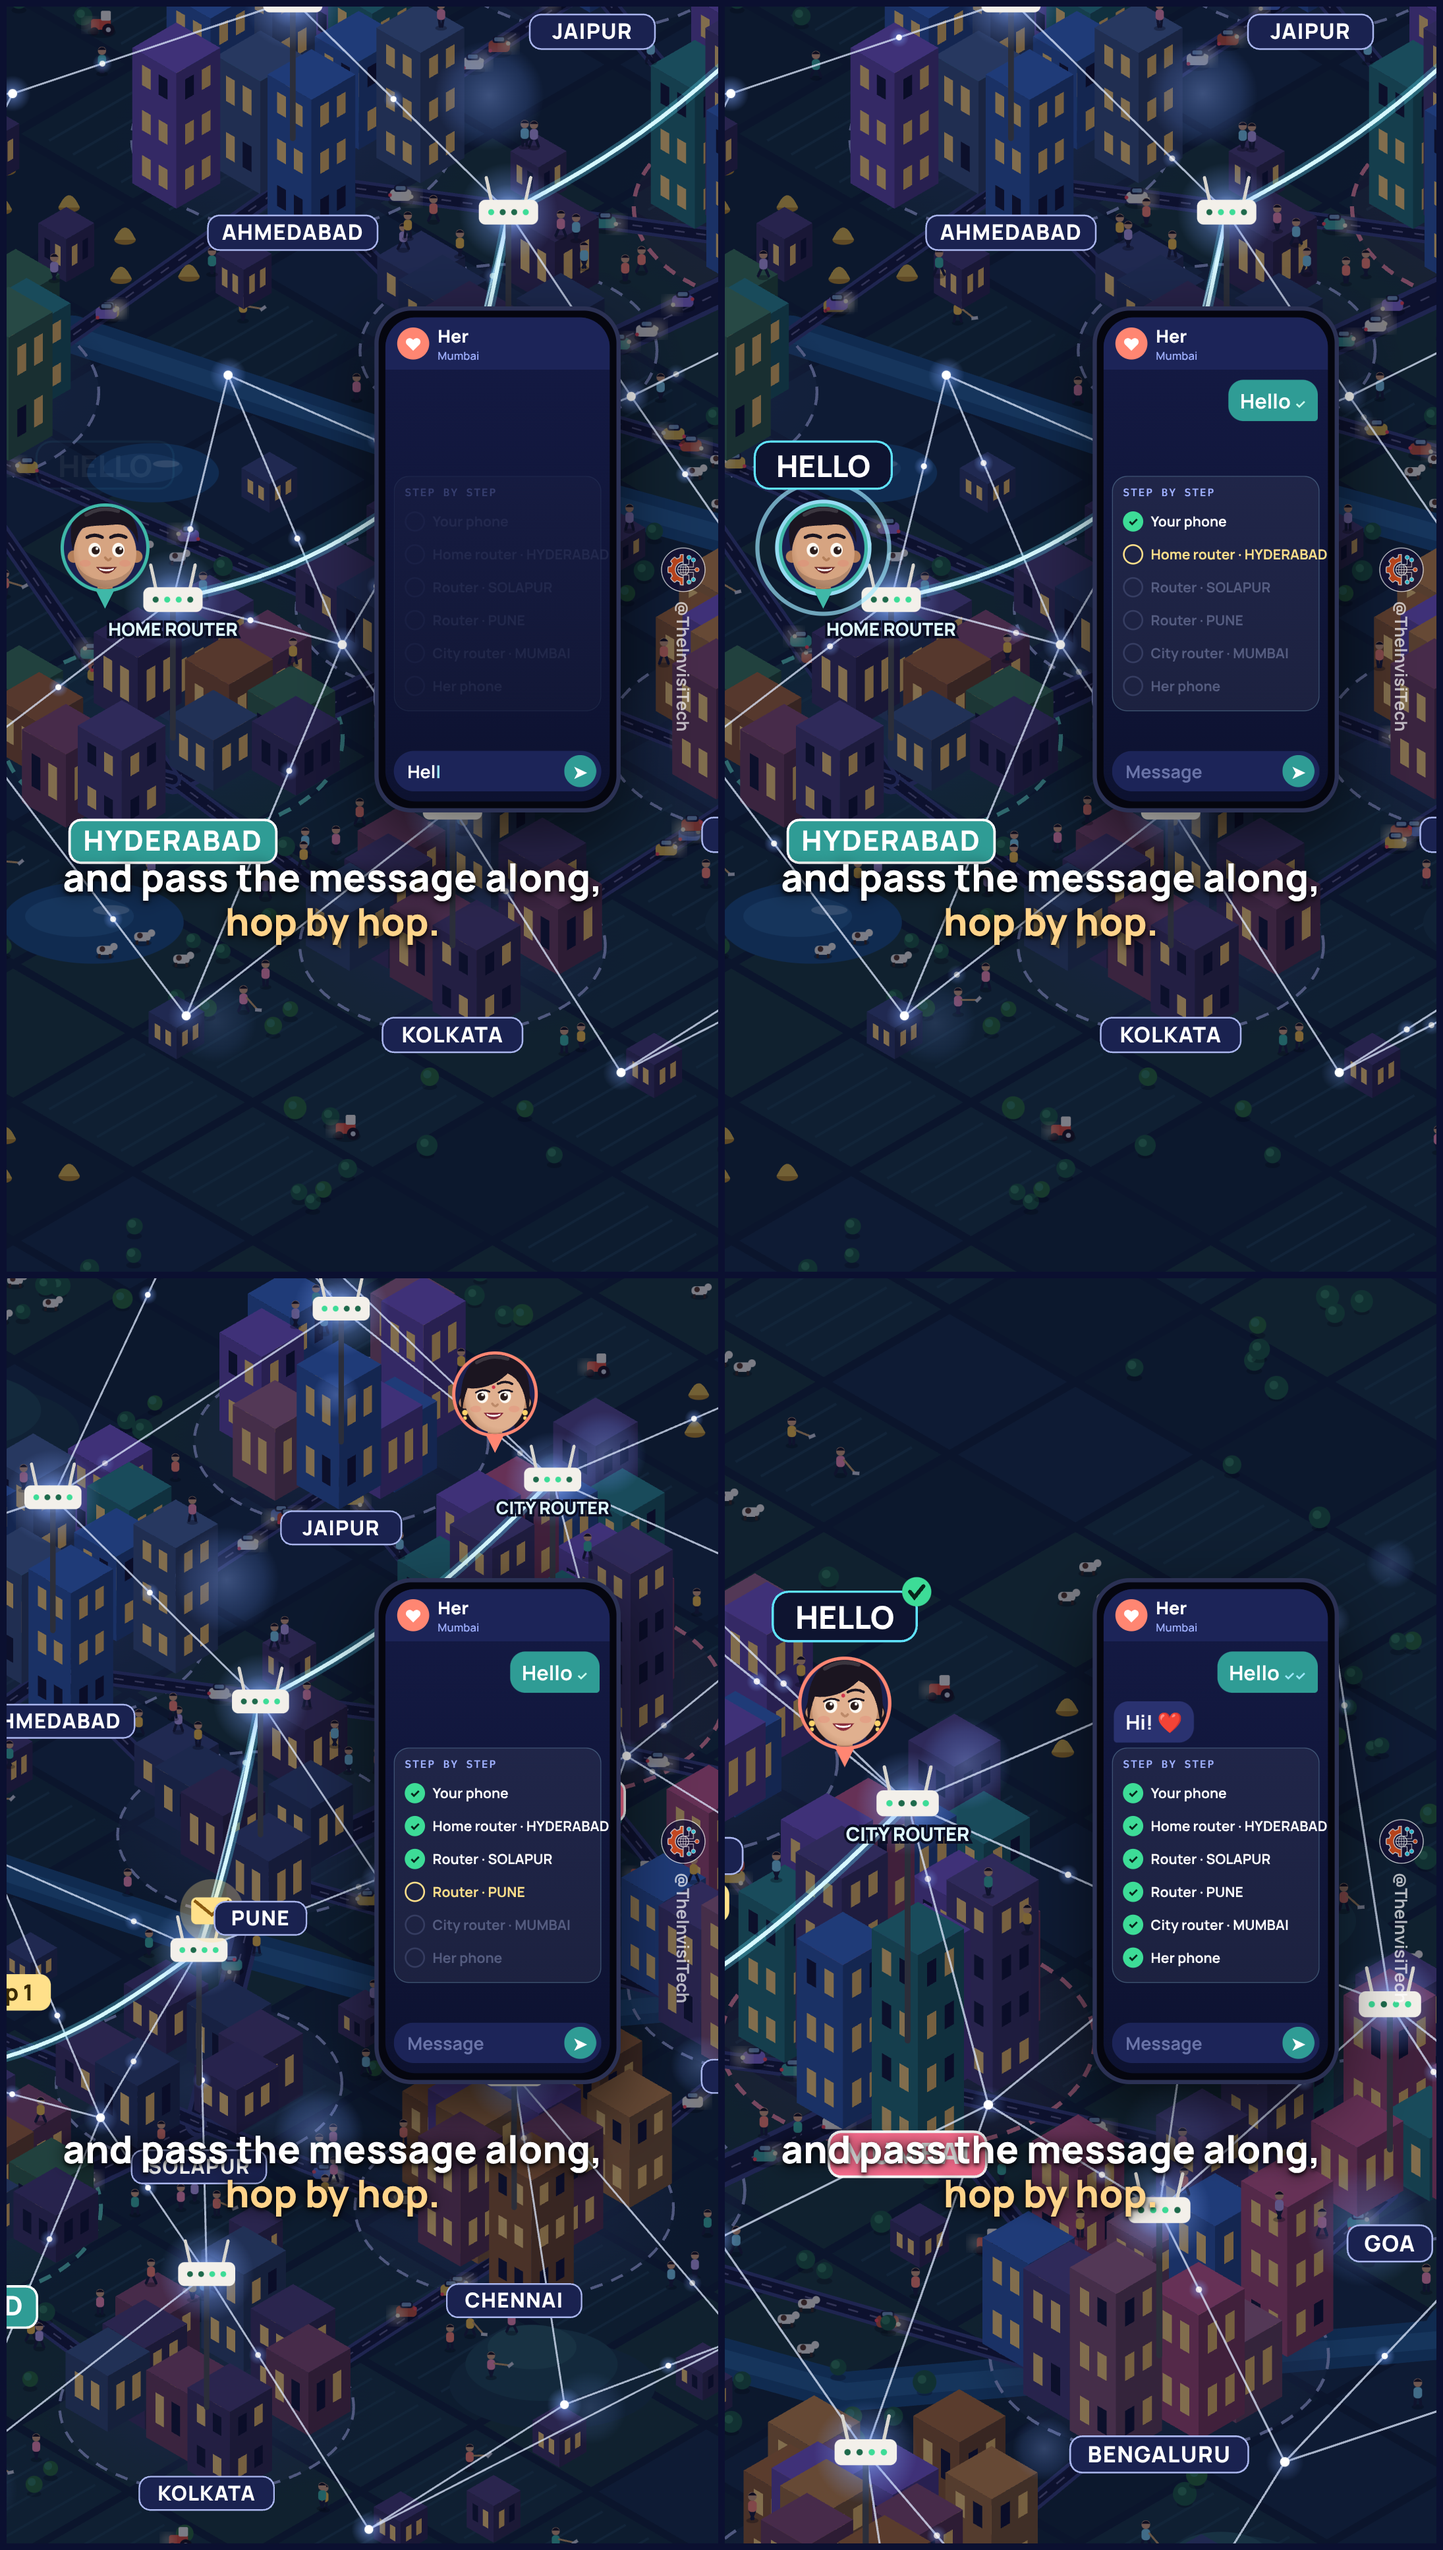
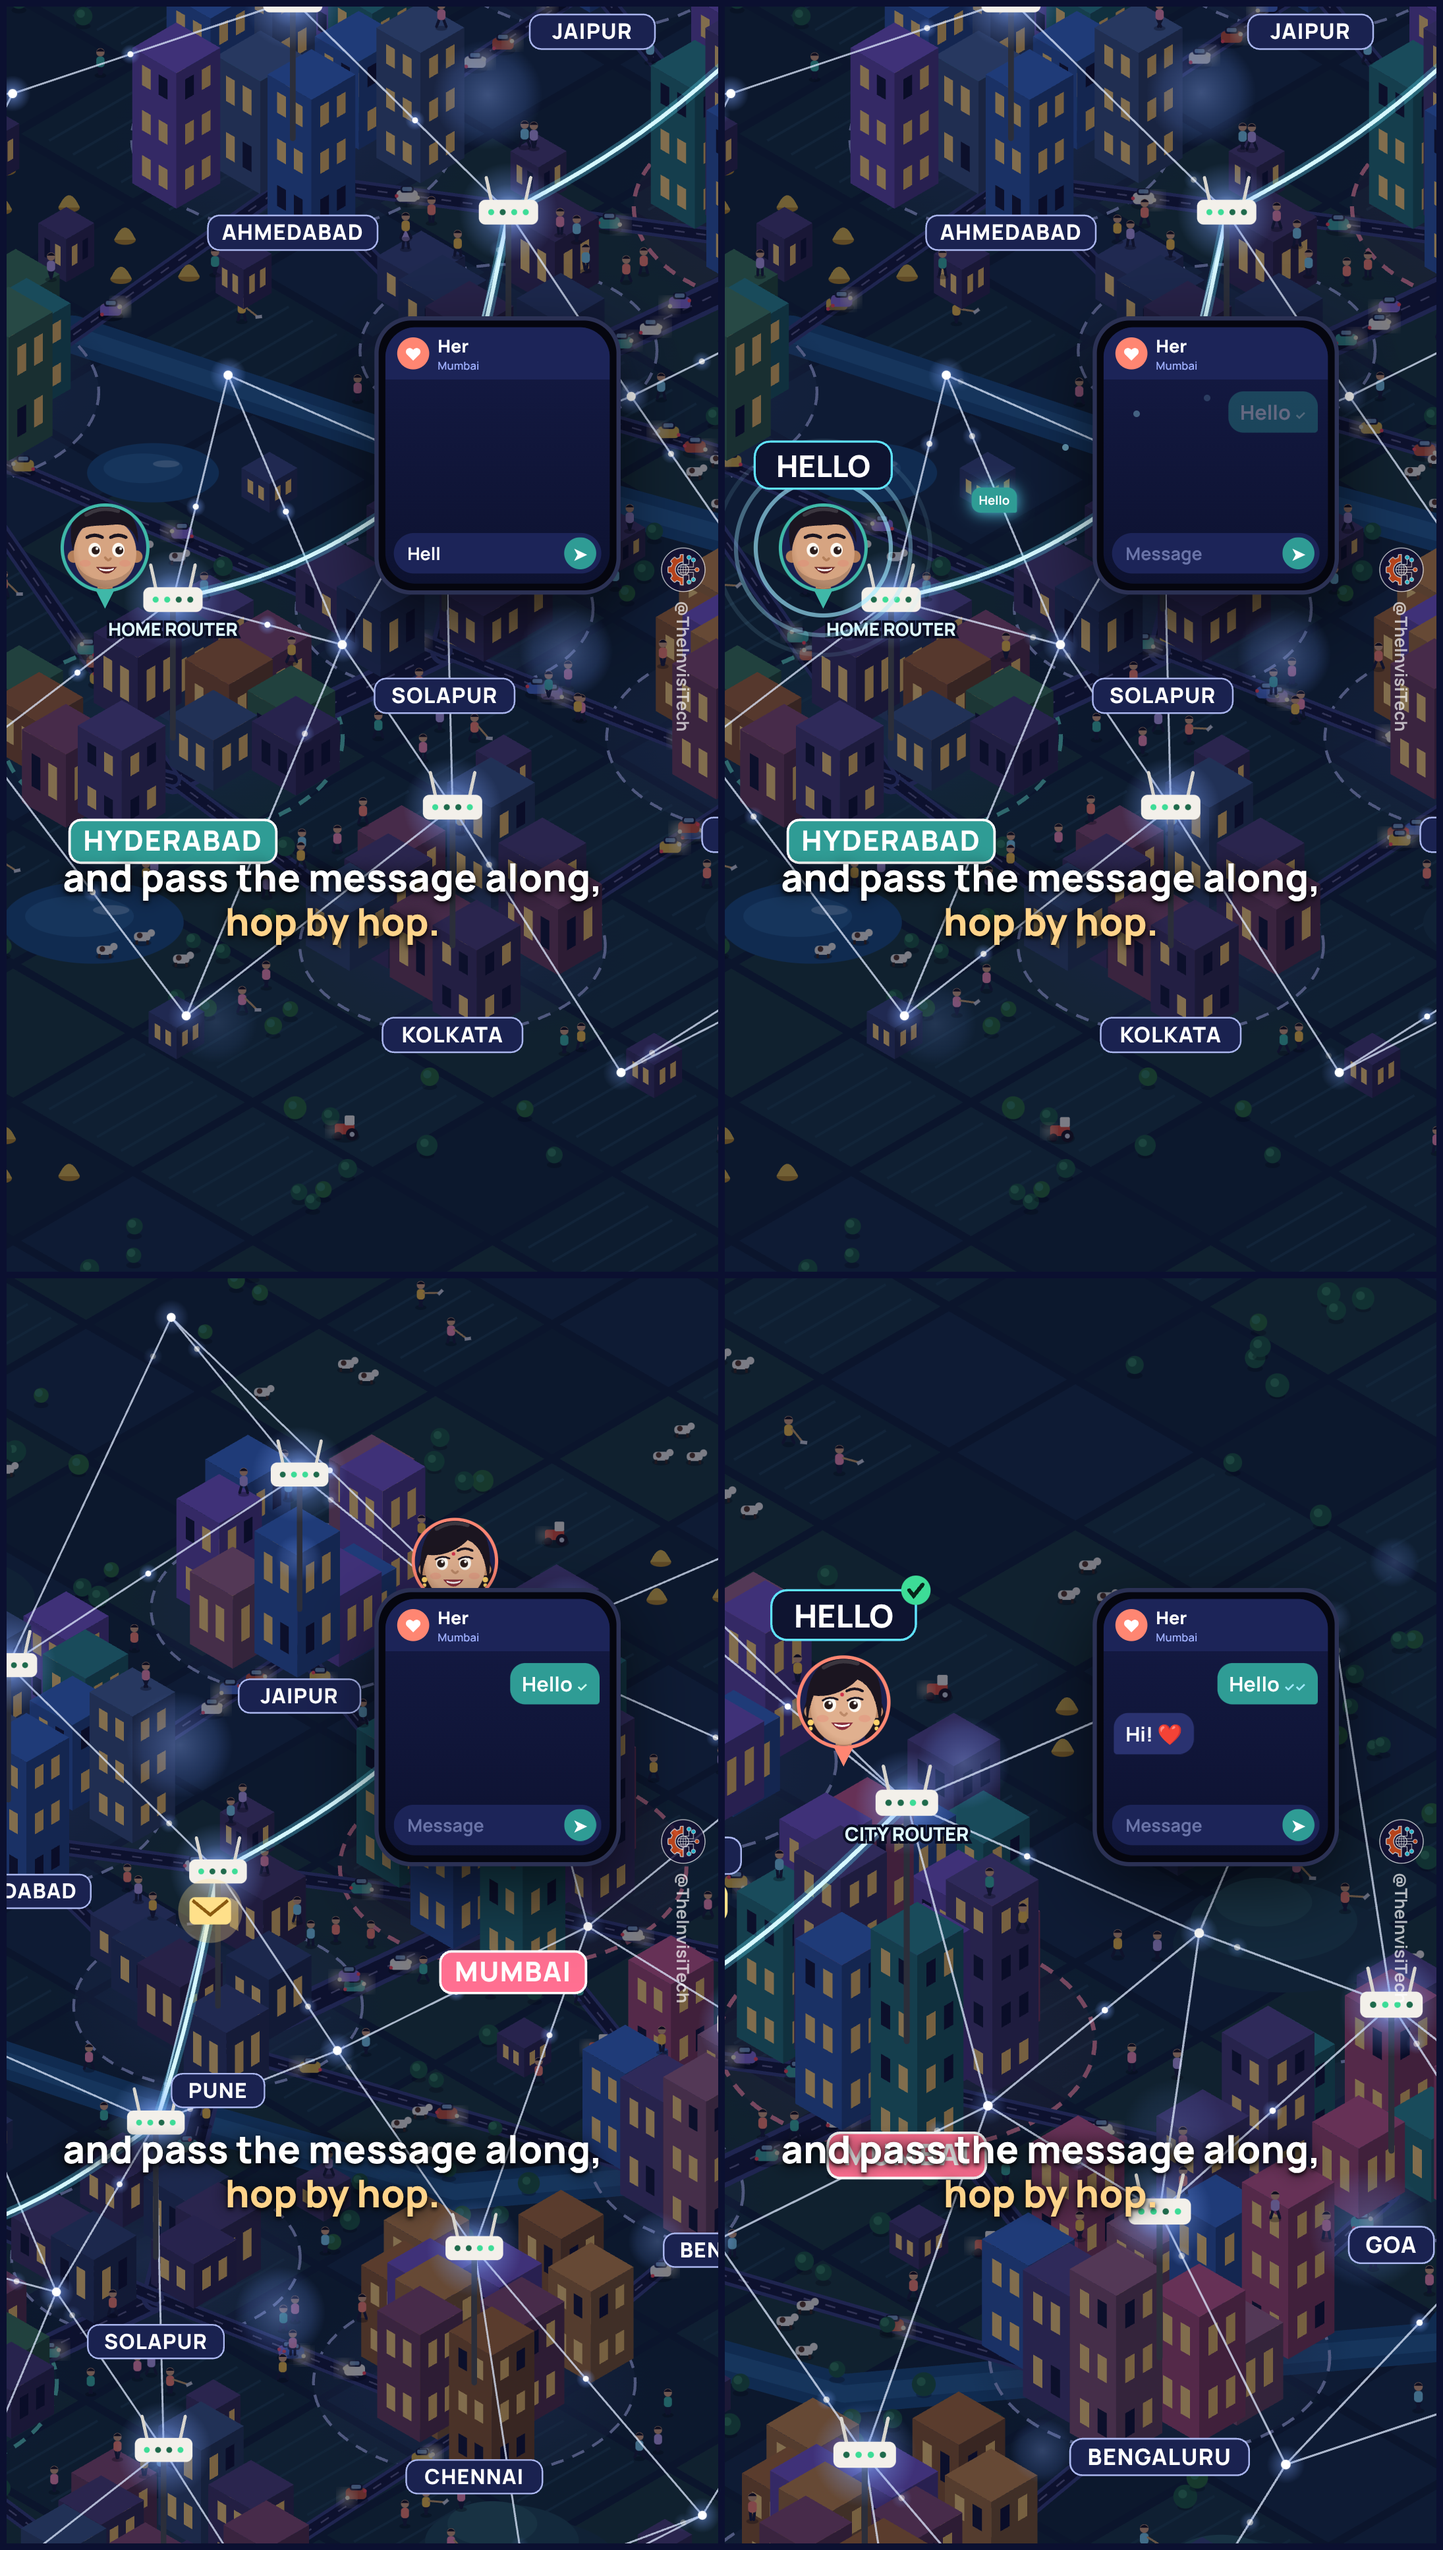
Internet short: phone shows only the chat; on send the message flies out live to her
Claude-Session: https://claude.ai/code/session_01GXcKc3rwQcfrK3291f8HAB

diff --git a/internet/v3/src/dusk/IsoCity.tsx b/internet/v3/src/dusk/IsoCity.tsx
@@ -64,7 +64,7 @@ export const IsoCity: React.FC = () => {
   const bus = prog(f, 0.5, 2.9, easeInOut), busP = along(bus);
   const reach = prog(f, 3.5, 4.3, easeOut), fail = prog(f, 4.3, 4.6) * (1 - prog(f, 5.1, 5.4));
   const curve = (a: readonly number[], b: readonly number[], sag: number, u = 1) => Array.from({ length: 17 }).map((_, i) => { const k = (i / 16) * u; return `${lerp(a[0], b[0], k)},${lerp(a[1], b[1], k) + sag * Math.sin(Math.PI * k)}`; }).join(' ');
-  const H0 = 8.9, hop = clamp01((t - H0) / 2.4) * 3, hs = Math.min(2, Math.floor(hop)), hu = easeInOut(hop - hs), hp = [lerp(RT[hs][0], RT[hs + 1][0], hu), lerp(RT[hs][1], RT[hs + 1][1], hu) + 26 * Math.sin(Math.PI * hu)];
+  const H0 = 9.15, hop = clamp01((t - H0) / 2.4) * 3, hs = Math.min(2, Math.floor(hop)), hu = easeInOut(hop - hs), hp = [lerp(RT[hs][0], RT[hs + 1][0], hu), lerp(RT[hs][1], RT[hs + 1][1], hu) + 26 * Math.sin(Math.PI * hu)];
   const got = prog(f, H0 + 2.5, H0 + 2.75, easeOut);
   const herHome = g(3, -1.9, -0.4, 4.6), herXY = bus < 1 ? [busP[0], busP[1] - 110] : [herHome[0], herHome[1] - got * 8];
   const himXY = g(0, -1.3, 0.4, 2.6);
@@ -148,20 +148,13 @@ export const IsoCity: React.FC = () => {
       </svg>
       {/* his phone, on the right: type HELLO, send, then watch it go step by step */}
       {t > 7.4 && (() => { const a = prog(f, 7.4, 7.8, easeOut), typed = 'Hello'.slice(0, Math.max(0, Math.min(5, Math.floor((t - 7.9) / 0.12)))), sent = t >= 8.7, press = t > 8.6 && t < 8.78;
-        const rows: [string, number][] = [['Your phone', 8.75], ['Home router · ' + NAMES[0], H0 + 0.1], ['Router · ' + NAMES[1], H0 + 0.8], ['Router · ' + NAMES[2], H0 + 1.6], ['City router · ' + NAMES[3], H0 + 2.4], ['Her phone', H0 + 2.6]];
-        const done = rows.filter(([, at]) => t >= at).length, delivered = t >= H0 + 2.6, reply = prog(f, H0 + 3.1, H0 + 3.3, easeOut);
-        return <div style={{ position: 'absolute', left: 640, top: 455, width: 292, height: 600, borderRadius: 44, background: '#05060f', border: '5px solid #2b3154', boxShadow: '0 30px 80px rgba(0,0,0,.6)', transform: `translateX(${(1 - a) * 560}px) scale(1.28)`, transformOrigin: 'right top', overflow: 'hidden', fontFamily: FONT.ui }}>
+        const delivered = t >= H0 + 2.6, reply = prog(f, H0 + 3.1, H0 + 3.3, easeOut);
+        return <div style={{ position: 'absolute', left: 640, top: 470, width: 292, height: 330, borderRadius: 44, background: '#05060f', border: '5px solid #2b3154', boxShadow: '0 30px 80px rgba(0,0,0,.6)', transform: `translateX(${(1 - a) * 560}px) scale(1.28)`, transformOrigin: 'right top', overflow: 'hidden', fontFamily: FONT.ui }}>
           <div style={{ position: 'absolute', inset: 8, borderRadius: 36, background: 'linear-gradient(#141a44,#0d1230)', overflow: 'hidden' }}>
             <div style={{ height: 62, background: '#1c2458', display: 'flex', alignItems: 'center', gap: 10, padding: '0 14px' }}><div style={{ width: 38, height: 38, borderRadius: 19, background: '#ff8672', display: 'grid', placeItems: 'center', font: `800 20px ${FONT.ui}`, color: '#fff' }}>♥</div><div><div style={{ font: `800 21px ${FONT.ui}`, color: '#fff' }}>Her</div><div style={{ font: `600 13px ${FONT.ui}`, color: '#9fb0ff' }}>{NAMES[3][0] + NAMES[3].slice(1).toLowerCase()}</div></div></div>
-            <div style={{ padding: '12px 12px 0', height: 126 }}>
-              {sent && <div style={{ marginLeft: 'auto', width: 'fit-content', background: '#2f9c95', color: '#fff', borderRadius: '18px 18px 4px 18px', padding: '8px 14px', font: `700 24px ${FONT.ui}` }}>Hello <span style={{ font: `700 15px ${FONT.ui}`, color: delivered ? '#9fe9ff' : '#cfe' }}>{delivered ? '✓✓' : '✓'}</span></div>}
+            <div style={{ padding: '14px 12px 0', height: 150 }}>
+              {sent && <div style={{ marginLeft: 'auto', width: 'fit-content', opacity: t < 9.15 ? 0.35 : 1, background: '#2f9c95', color: '#fff', borderRadius: '18px 18px 4px 18px', padding: '8px 14px', font: `700 24px ${FONT.ui}` }}>Hello <span style={{ font: `700 15px ${FONT.ui}`, color: delivered ? '#9fe9ff' : '#cfe' }}>{delivered ? '✓✓' : '✓'}</span></div>}
               {reply > 0 && <div style={{ marginTop: 10, width: 'fit-content', background: '#2a3270', color: '#fff', borderRadius: '18px 18px 18px 4px', padding: '8px 14px', font: `700 24px ${FONT.ui}`, opacity: reply, transform: `scale(${0.8 + 0.2 * reply})`, transformOrigin: 'left bottom' }}>Hi! ❤</div>}
-            </div>
-            <div style={{ margin: '0 10px', borderRadius: 18, background: 'rgba(255,255,255,.06)', border: '1px solid rgba(159,233,255,.25)', padding: '10px 12px', opacity: sent ? 1 : 0.25 }}>
-              <div style={{ font: `600 13px ${FONT.mono}`, letterSpacing: '0.1em', color: '#9fb0ff', marginBottom: 6 }}>STEP BY STEP</div>
-              {rows.map(([name], i) => { const ok = i < done, cur = i === done && sent; return <div key={i} style={{ display: 'flex', alignItems: 'center', gap: 9, height: 39, opacity: ok || cur ? 1 : 0.4 }}>
-                <div style={{ width: 24, height: 24, borderRadius: 12, flex: '0 0 auto', background: ok ? '#3ddc97' : 'transparent', border: `2.5px solid ${ok ? '#3ddc97' : cur ? '#ffe08a' : '#5a648f'}`, display: 'grid', placeItems: 'center', font: `800 14px ${FONT.ui}`, color: '#06261a' }}>{ok ? '✓' : ''}</div>
-                <div style={{ font: `700 16.5px ${FONT.ui}`, color: ok ? '#fff' : cur ? '#ffe08a' : '#a9b4dd', whiteSpace: 'nowrap' }}>{name}</div></div>; })}
             </div>
             <div style={{ position: 'absolute', left: 10, right: 10, bottom: 12, height: 48, borderRadius: 24, background: '#1c2458', display: 'flex', alignItems: 'center', padding: '0 6px 0 16px', gap: 8 }}>
               <div style={{ flex: 1, font: `700 21px ${FONT.ui}`, color: '#fff' }}>{sent ? <span style={{ color: '#6a74a8' }}>Message</span> : <>{typed}<span style={{ opacity: Math.sin(t * 10) > 0 ? 1 : 0, color: '#9fe9ff' }}>|</span></>}</div>
@@ -169,6 +162,9 @@ export const IsoCity: React.FC = () => {
             </div>
           </div>
         </div>; })()}
+      {t >= 8.7 && t < 9.15 && (() => { const u = easeInOut(clamp01((t - 8.7) / 0.45)), tx = 540 + cam.z * (RT[0][0] - cam.x), ty = 960 + cam.z * (RT[0][1] - cam.y), x = lerp(840, tx, u), y = lerp(585, ty, u) - 90 * Math.sin(Math.PI * u), sc = lerp(1.28, 0.6, u);
+        return <><div style={{ position: 'absolute', left: x, top: y, transform: `translate(-50%,-50%) scale(${sc})`, background: '#2f9c95', color: '#fff', borderRadius: '18px 18px 4px 18px', padding: '8px 14px', font: `700 24px ${FONT.ui}`, boxShadow: '0 0 30px rgba(95,227,255,.9)' }}>Hello</div>
+          {[0.25, 0.5, 0.75].map((k) => <div key={k} style={{ position: 'absolute', left: lerp(840, tx, u * k), top: lerp(585, ty, u * k) - 90 * Math.sin(Math.PI * u * k), width: 10, height: 10, borderRadius: 5, background: '#9fe9ff', opacity: 0.7 * k, transform: 'translate(-50%,-50%)' }} />)}</>; })()}
       {line && <div style={{ position: 'absolute', top: 1260, left: 60, right: 150, height: 190, display: 'flex', alignItems: 'center', justifyContent: 'center', textAlign: 'center', font: `800 58px/1.15 ${FONT.ui}`, color: '#fff', textShadow: '0 3px 6px rgba(0,0,0,.95), 0 0 26px rgba(0,0,0,.9)' }}><div className="sub">{line}</div></div>}
       <style>{'.sub em{font-style:normal;color:#ffd38a}'}</style>
       <div style={{ position: 'absolute', right: 18, top: 960, transform: 'translateY(-50%)', display: 'flex', flexDirection: 'column', alignItems: 'center', gap: 12, opacity: 0.8 }}>
